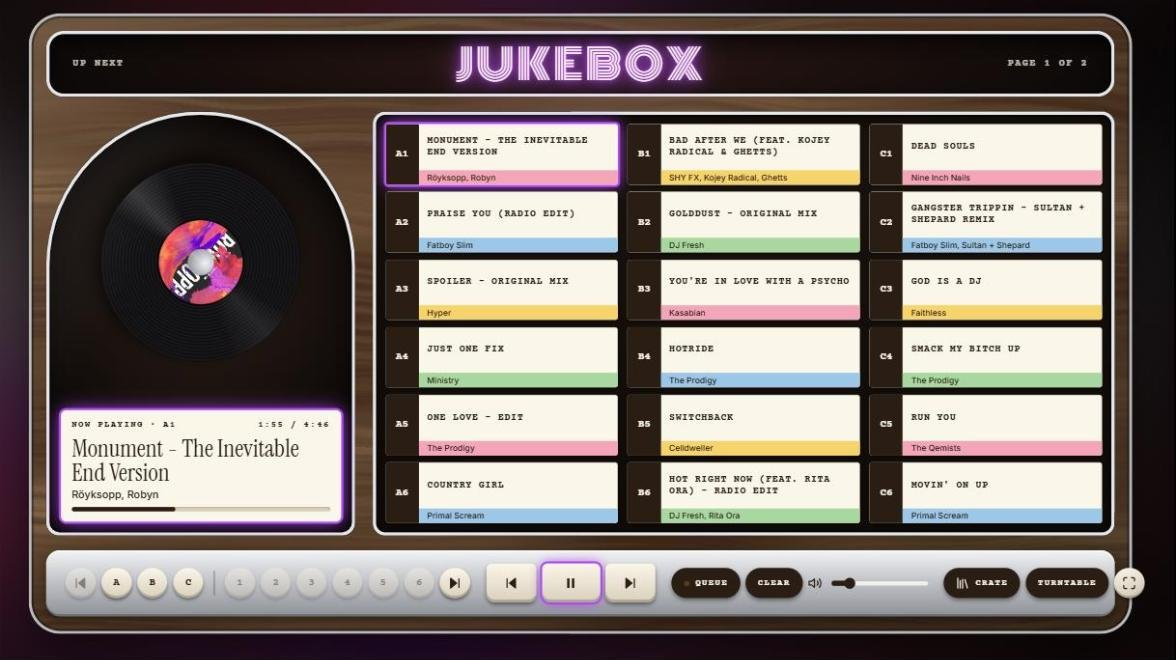
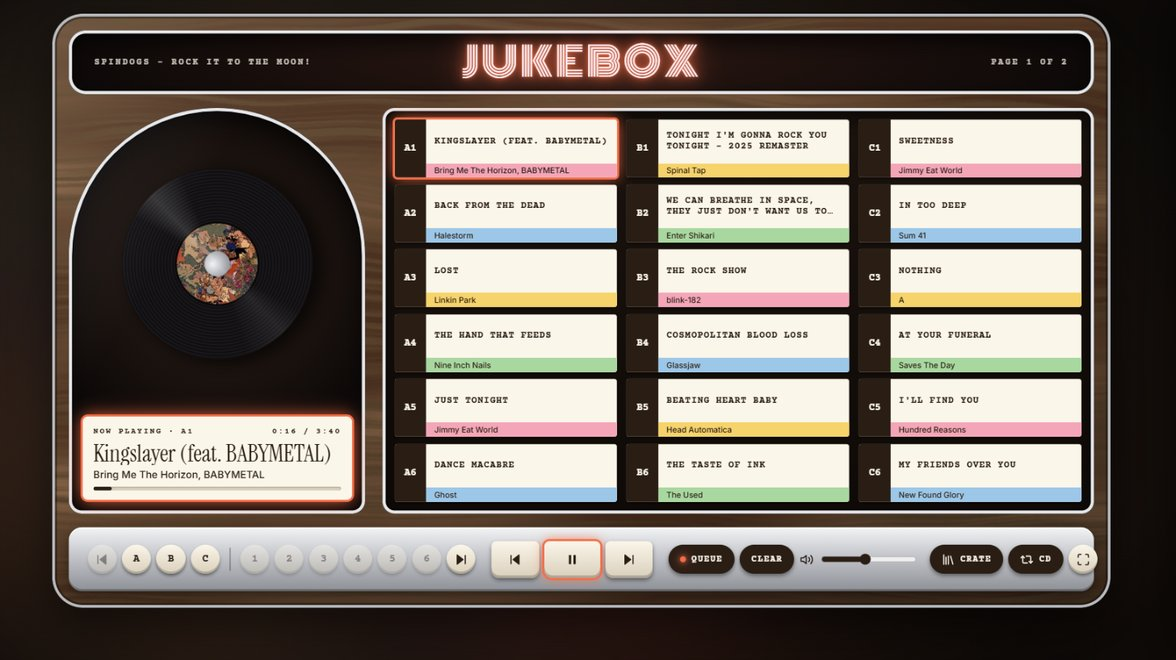
README: CD player screenshot, and refresh the other two
All three taken from the same playback session at 1176x660, so the
turntable and jukebox shots also show the new theme button.

diff --git a/README.md b/README.md
@@ -8,6 +8,8 @@ A fullscreen record player for a spare screen. Album art spins as the record lab
 
 ![The jukebox theme: neon marquee, the playing single under a glass dome, and a wall of A1-C6 title strips](docs/jukebox.jpg)
 
+![The CD theme: a silver hi-fi deck with the album art printed on the spinning disc, and a teal dot-matrix display showing track, time, title, track calendar and level meter](docs/cd.jpg)
+
 ## Setup
 
 Everyone uses their own Spotify app (free to create). Spotify only lets an app in Development Mode be used by its owner and a few allowlisted people, so one shared app can't serve everybody. Premium is required.
